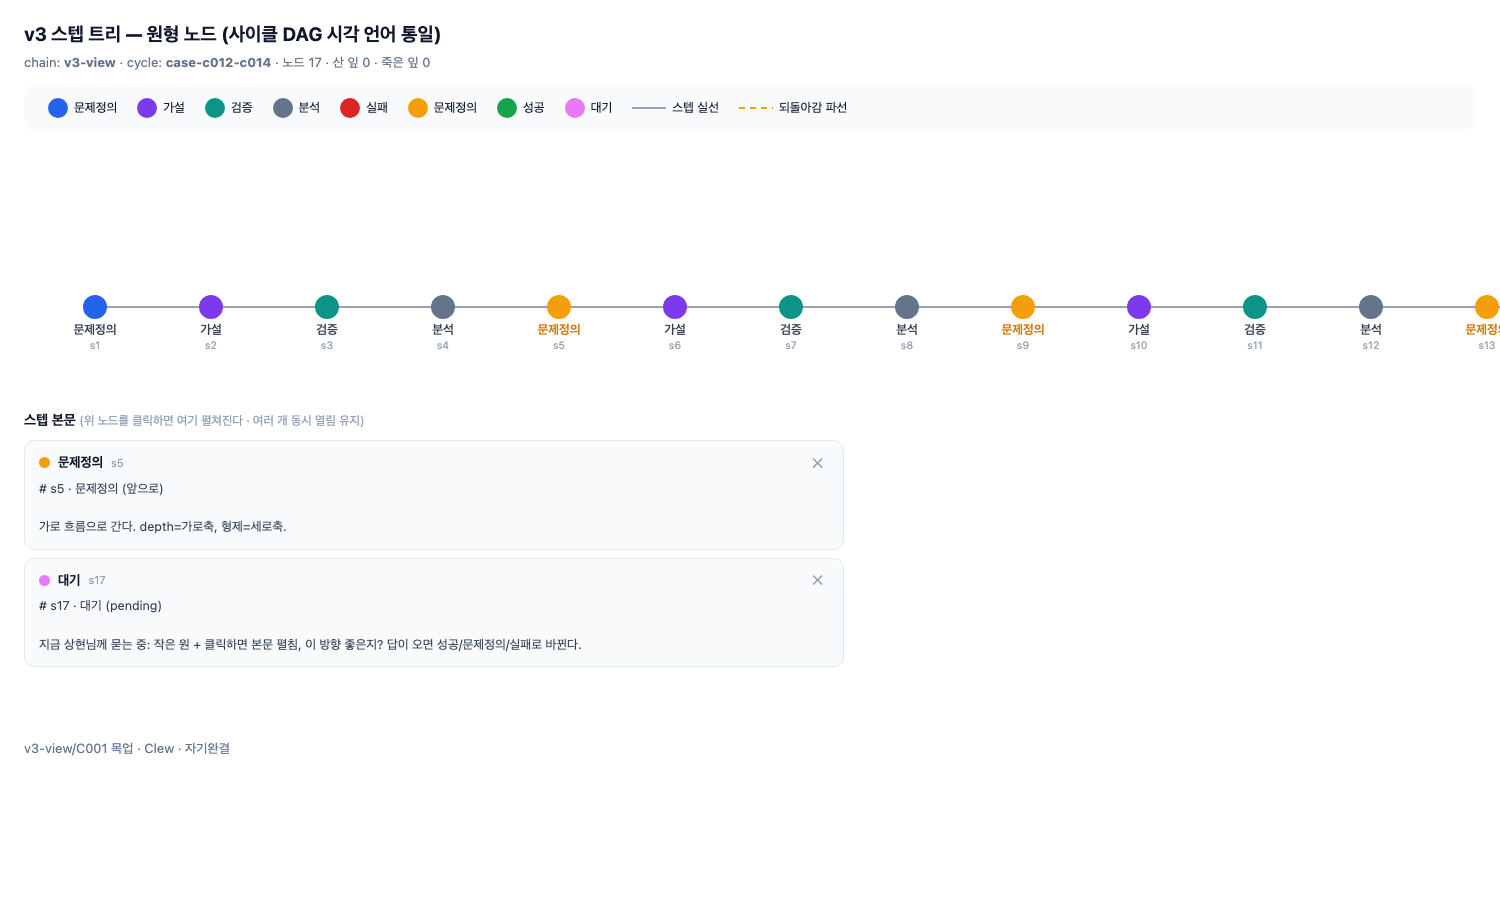
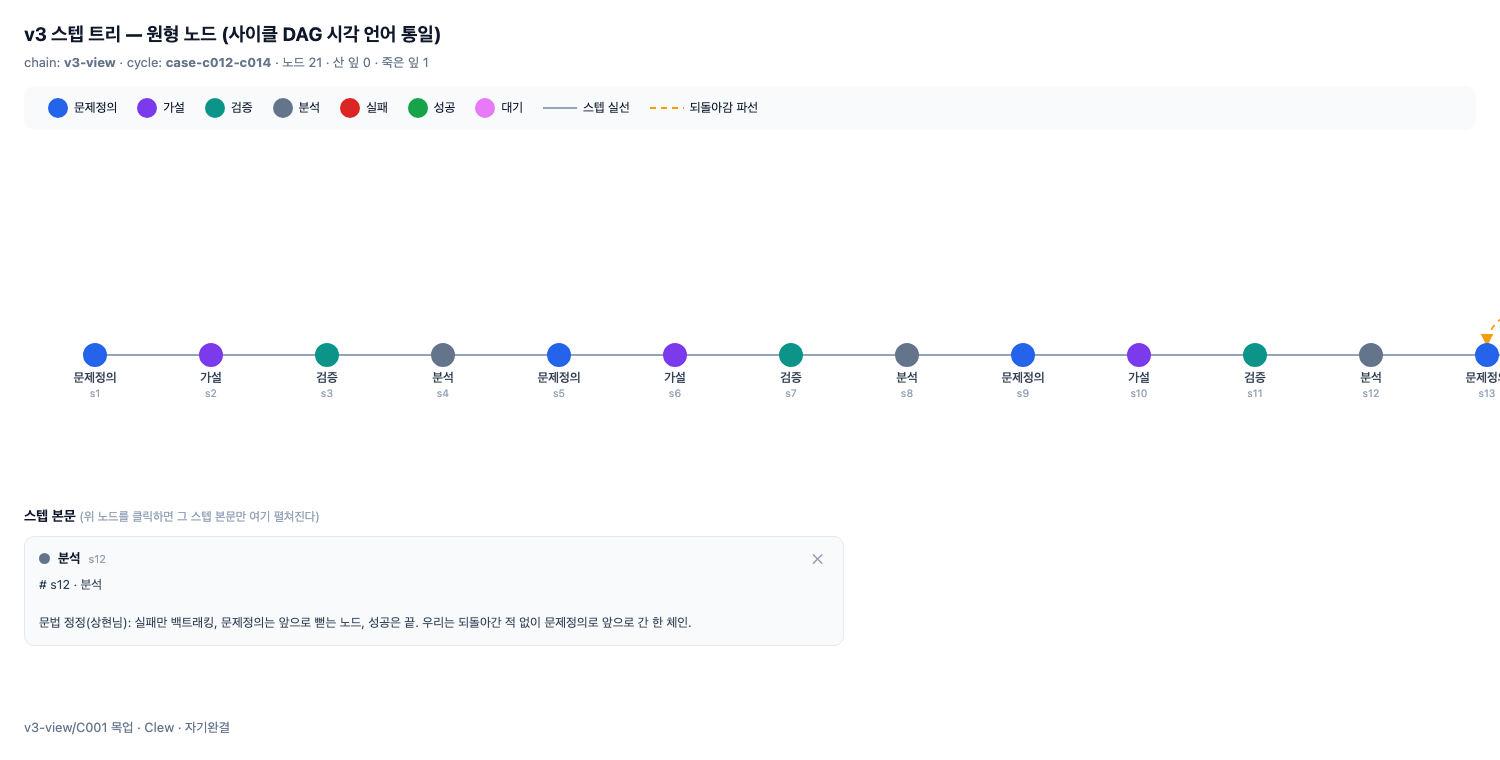
clew: 단일 열림 수정 — 클릭한 노드 본문만 보이게 (상현님)
다중 열림→단일. toggle이 closeAll 먼저 호출, 항상 최대 하나만 열림(재클릭 토글).
트리에 각인: s21 대기→문제정의(앞으로), s22~s25 새 가지(수정→검증→분석→대기).

diff --git a/rooms/experiment/chains/v3-view/C001-circular-step-tree-unified-language/3-verification/design-steptree/out.html b/rooms/experiment/chains/v3-view/C001-circular-step-tree-unified-language/3-verification/design-steptree/out.html
@@ -40,7 +40,7 @@ body{margin:0;font:14px/1.5 -apple-system,BlinkMacSystemFont,"Segoe UI",sans-ser
 .sb-close{margin-left:auto;border:none;background:transparent;cursor:pointer;color:#94a3b8;font-size:14px}
 .sb-body{white-space:pre-wrap;font:12.5px/1.55 -apple-system,BlinkMacSystemFont,sans-serif;margin:0;color:#334155}
 @media (prefers-color-scheme:dark){.sb-body{color:#cbd5e1}}
-</style><div class="head"><h1>v3 스텝 트리 — 원형 노드 (사이클 DAG 시각 언어 통일)</h1><div class="meta">chain: <b>v3-view</b> · cycle: <b>case-c012-c014</b> · 노드 21 · 산 잎 0 · 죽은 잎 1</div></div><div class="legend"><span class="lg"><span class="sw" style="background:#2563eb;border-color:#2563eb"></span>문제정의</span><span class="lg"><span class="sw" style="background:#7c3aed;border-color:#7c3aed"></span>가설</span><span class="lg"><span class="sw" style="background:#0d9488;border-color:#0d9488"></span>검증</span><span class="lg"><span class="sw" style="background:#64748b;border-color:#64748b"></span>분석</span><span class="lg"><span class="sw" style="background:#dc2626;border-color:#dc2626"></span>실패</span><span class="lg"><span class="sw" style="background:#16a34a;border-color:#16a34a"></span>성공</span><span class="lg"><span class="sw" style="background:#e879f9;border-color:#e879f9"></span>대기</span><span class="lg"><svg width="34" height="10"><line x1="0" y1="5" x2="34" y2="5" stroke="#94a3b8" stroke-width="2"/></svg>스텝 실선</span><span class="lg"><svg width="34" height="10"><line x1="0" y1="5" x2="34" y2="5" stroke="#f59e0b" stroke-width="2" stroke-dasharray="6 5"/></svg>되돌아감 파선</span></div><div class="wrap"><svg width="2058" height="308" viewBox="0 0 2058 308" xmlns="http://www.w3.org/2000/svg"><defs><marker id="bt-arrow" viewBox="0 0 10 10" refX="8" refY="5" markerWidth="7" markerHeight="7" orient="auto-start-reverse"><path d="M0 0 L10 5 L0 10 z" fill="#f59e0b"/></marker></defs><path class="edge-parent" d="M 82 209 C 129 209, 129 209, 176 209" data-from="s1" data-to="s2" /><path class="edge-parent" d="M 198 209 C 245 209, 245 209, 292 209" data-from="s2" data-to="s3" /><path class="edge-parent" d="M 314 209 C 361 209, 361 209, 408 209" data-from="s3" data-to="s4" /><path class="edge-parent" d="M 430 209 C 477 209, 477 209, 524 209" data-from="s4" data-to="s5" /><path class="edge-parent" d="M 546 209 C 593 209, 593 209, 640 209" data-from="s5" data-to="s6" /><path class="edge-parent" d="M 662 209 C 709 209, 709 209, 756 209" data-from="s6" data-to="s7" /><path class="edge-parent" d="M 778 209 C 825 209, 825 209, 872 209" data-from="s7" data-to="s8" /><path class="edge-parent" d="M 894 209 C 941 209, 941 209, 988 209" data-from="s8" data-to="s9" /><path class="edge-parent" d="M 1010 209 C 1057 209, 1057 209, 1104 209" data-from="s9" data-to="s10" /><path class="edge-parent" d="M 1126 209 C 1173 209, 1173 209, 1220 209" data-from="s10" data-to="s11" /><path class="edge-parent" d="M 1242 209 C 1289 209, 1289 209, 1336 209" data-from="s11" data-to="s12" /><path class="edge-parent" d="M 1358 209 C 1405 209, 1405 209, 1452 209" data-from="s12" data-to="s13" /><path class="edge-parent" d="M 1474 209 C 1521 209, 1521 161, 1568 161" data-from="s13" data-to="s14" /><path class="edge-parent" d="M 1590 161 C 1637 161, 1637 161, 1684 161" data-from="s14" data-to="s15" /><path class="edge-parent" d="M 1706 161 C 1753 161, 1753 161, 1800 161" data-from="s15" data-to="s16" /><path class="edge-parent" d="M 1822 161 C 1869 161, 1869 161, 1916 161" data-from="s16" data-to="s17" /><path class="edge-parent" d="M 1474 209 C 1521 209, 1521 257, 1568 257" data-from="s13" data-to="s18" /><path class="edge-parent" d="M 1590 257 C 1637 257, 1637 257, 1684 257" data-from="s18" data-to="s19" /><path class="edge-parent" d="M 1706 257 C 1753 257, 1753 257, 1800 257" data-from="s19" data-to="s20" /><path class="edge-parent" d="M 1822 257 C 1869 257, 1869 257, 1916 257" data-from="s20" data-to="s21" /><path class="edge-backtrack" marker-end="url(#bt-arrow)" d="M 1927 150 C 1927 108, 1463 108, 1463 198" data-from="s17" data-to="s13" /><g class="node kind-define clickable" data-id="s1" data-kind="define" data-outcome="" data-body="body-s1" tabindex="0" role="button" aria-label="스텝 s1 본문 열기"><circle class="n-hit" cx="71" cy="209" r="19" fill="transparent" /><circle class="n-circle" cx="71" cy="209" r="11" fill="#2563eb" stroke="#2563eb" /><text class="n-name" x="71" y="236" text-anchor="middle">문제정의</text><text class="n-sub" x="71" y="251" text-anchor="middle">s1</text></g><g class="node kind-hypothesis clickable" data-id="s2" data-kind="hypothesis" data-outcome="" data-body="body-s2" tabindex="0" role="button" aria-label="스텝 s2 본문 열기"><circle class="n-hit" cx="187" cy="209" r="19" fill="transparent" /><circle class="n-circle" cx="187" cy="209" r="11" fill="#7c3aed" stroke="#7c3aed" /><text class="n-name" x="187" y="236" text-anchor="middle">가설</text><text class="n-sub" x="187" y="251" text-anchor="middle">s2</text></g><g class="node kind-verify clickable" data-id="s3" data-kind="verify" data-outcome="" data-body="body-s3" tabindex="0" role="button" aria-label="스텝 s3 본문 열기"><circle class="n-hit" cx="303" cy="209" r="19" fill="transparent" /><circle class="n-circle" cx="303" cy="209" r="11" fill="#0d9488" stroke="#0d9488" /><text class="n-name" x="303" y="236" text-anchor="middle">검증</text><text class="n-sub" x="303" y="251" text-anchor="middle">s3</text></g><g class="node kind-analyze clickable" data-id="s4" data-kind="analyze" data-outcome="" data-body="body-s4" tabindex="0" role="button" aria-label="스텝 s4 본문 열기"><circle class="n-hit" cx="419" cy="209" r="19" fill="transparent" /><circle class="n-circle" cx="419" cy="209" r="11" fill="#64748b" stroke="#64748b" /><text class="n-name" x="419" y="236" text-anchor="middle">분석</text><text class="n-sub" x="419" y="251" text-anchor="middle">s4</text></g><g class="node kind-define clickable" data-id="s5" data-kind="define" data-outcome="" data-body="body-s5" tabindex="0" role="button" aria-label="스텝 s5 본문 열기"><circle class="n-hit" cx="535" cy="209" r="19" fill="transparent" /><circle class="n-circle" cx="535" cy="209" r="11" fill="#2563eb" stroke="#2563eb" /><text class="n-name" x="535" y="236" text-anchor="middle">문제정의</text><text class="n-sub" x="535" y="251" text-anchor="middle">s5</text></g><g class="node kind-hypothesis clickable" data-id="s6" data-kind="hypothesis" data-outcome="" data-body="body-s6" tabindex="0" role="button" aria-label="스텝 s6 본문 열기"><circle class="n-hit" cx="651" cy="209" r="19" fill="transparent" /><circle class="n-circle" cx="651" cy="209" r="11" fill="#7c3aed" stroke="#7c3aed" /><text class="n-name" x="651" y="236" text-anchor="middle">가설</text><text class="n-sub" x="651" y="251" text-anchor="middle">s6</text></g><g class="node kind-verify clickable" data-id="s7" data-kind="verify" data-outcome="" data-body="body-s7" tabindex="0" role="button" aria-label="스텝 s7 본문 열기"><circle class="n-hit" cx="767" cy="209" r="19" fill="transparent" /><circle class="n-circle" cx="767" cy="209" r="11" fill="#0d9488" stroke="#0d9488" /><text class="n-name" x="767" y="236" text-anchor="middle">검증</text><text class="n-sub" x="767" y="251" text-anchor="middle">s7</text></g><g class="node kind-analyze clickable" data-id="s8" data-kind="analyze" data-outcome="" data-body="body-s8" tabindex="0" role="button" aria-label="스텝 s8 본문 열기"><circle class="n-hit" cx="883" cy="209" r="19" fill="transparent" /><circle class="n-circle" cx="883" cy="209" r="11" fill="#64748b" stroke="#64748b" /><text class="n-name" x="883" y="236" text-anchor="middle">분석</text><text class="n-sub" x="883" y="251" text-anchor="middle">s8</text></g><g class="node kind-define clickable" data-id="s9" data-kind="define" data-outcome="" data-body="body-s9" tabindex="0" role="button" aria-label="스텝 s9 본문 열기"><circle class="n-hit" cx="999" cy="209" r="19" fill="transparent" /><circle class="n-circle" cx="999" cy="209" r="11" fill="#2563eb" stroke="#2563eb" /><text class="n-name" x="999" y="236" text-anchor="middle">문제정의</text><text class="n-sub" x="999" y="251" text-anchor="middle">s9</text></g><g class="node kind-hypothesis clickable" data-id="s10" data-kind="hypothesis" data-outcome="" data-body="body-s10" tabindex="0" role="button" aria-label="스텝 s10 본문 열기"><circle class="n-hit" cx="1115" cy="209" r="19" fill="transparent" /><circle class="n-circle" cx="1115" cy="209" r="11" fill="#7c3aed" stroke="#7c3aed" /><text class="n-name" x="1115" y="236" text-anchor="middle">가설</text><text class="n-sub" x="1115" y="251" text-anchor="middle">s10</text></g><g class="node kind-verify clickable" data-id="s11" data-kind="verify" data-outcome="" data-body="body-s11" tabindex="0" role="button" aria-label="스텝 s11 본문 열기"><circle class="n-hit" cx="1231" cy="209" r="19" fill="transparent" /><circle class="n-circle" cx="1231" cy="209" r="11" fill="#0d9488" stroke="#0d9488" /><text class="n-name" x="1231" y="236" text-anchor="middle">검증</text><text class="n-sub" x="1231" y="251" text-anchor="middle">s11</text></g><g class="node kind-analyze clickable" data-id="s12" data-kind="analyze" data-outcome="" data-body="body-s12" tabindex="0" role="button" aria-label="스텝 s12 본문 열기"><circle class="n-hit" cx="1347" cy="209" r="19" fill="transparent" /><circle class="n-circle" cx="1347" cy="209" r="11" fill="#64748b" stroke="#64748b" /><text class="n-name" x="1347" y="236" text-anchor="middle">분석</text><text class="n-sub" x="1347" y="251" text-anchor="middle">s12</text></g><g class="node kind-define clickable" data-id="s13" data-kind="define" data-outcome="" data-body="body-s13" tabindex="0" role="button" aria-label="스텝 s13 본문 열기"><circle class="n-hit" cx="1463" cy="209" r="19" fill="transparent" /><circle class="n-circle" cx="1463" cy="209" r="11" fill="#2563eb" stroke="#2563eb" /><text class="n-name" x="1463" y="236" text-anchor="middle">문제정의</text><text class="n-sub" x="1463" y="251" text-anchor="middle">s13</text></g><g class="node kind-hypothesis clickable" data-id="s14" data-kind="hypothesis" data-outcome="" data-body="body-s14" tabindex="0" role="button" aria-label="스텝 s14 본문 열기"><circle class="n-hit" cx="1579" cy="161" r="19" fill="transparent" /><circle class="n-circle" cx="1579" cy="161" r="11" fill="#7c3aed" stroke="#7c3aed" /><text class="n-name" x="1579" y="188" text-anchor="middle">가설</text><text class="n-sub" x="1579" y="203" text-anchor="middle">s14</text></g><g class="node kind-verify clickable" data-id="s15" data-kind="verify" data-outcome="" data-body="body-s15" tabindex="0" role="button" aria-label="스텝 s15 본문 열기"><circle class="n-hit" cx="1695" cy="161" r="19" fill="transparent" /><circle class="n-circle" cx="1695" cy="161" r="11" fill="#0d9488" stroke="#0d9488" /><text class="n-name" x="1695" y="188" text-anchor="middle">검증</text><text class="n-sub" x="1695" y="203" text-anchor="middle">s15</text></g><g class="node kind-analyze clickable" data-id="s16" data-kind="analyze" data-outcome="" data-body="body-s16" tabindex="0" role="button" aria-label="스텝 s16 본문 열기"><circle class="n-hit" cx="1811" cy="161" r="19" fill="transparent" /><circle class="n-circle" cx="1811" cy="161" r="11" fill="#64748b" stroke="#64748b" /><text class="n-name" x="1811" y="188" text-anchor="middle">분석</text><text class="n-sub" x="1811" y="203" text-anchor="middle">s16</text></g><g class="node kind-fail result-fail clickable" data-id="s17" data-kind="fail" data-outcome="fail" data-body="body-s17" tabindex="0" role="button" aria-label="스텝 s17 본문 열기"><circle class="n-hit" cx="1927" cy="161" r="19" fill="transparent" /><circle class="n-circle" cx="1927" cy="161" r="11" fill="#dc2626" stroke="#dc2626" /><text class="n-name" x="1927" y="188" text-anchor="middle">실패</text><text class="n-sub" x="1927" y="203" text-anchor="middle">s17</text></g><g class="node kind-hypothesis clickable" data-id="s18" data-kind="hypothesis" data-outcome="" data-body="body-s18" tabindex="0" role="button" aria-label="스텝 s18 본문 열기"><circle class="n-hit" cx="1579" cy="257" r="19" fill="transparent" /><circle class="n-circle" cx="1579" cy="257" r="11" fill="#7c3aed" stroke="#7c3aed" /><text class="n-name" x="1579" y="284" text-anchor="middle">가설</text><text class="n-sub" x="1579" y="299" text-anchor="middle">s18</text></g><g class="node kind-verify clickable" data-id="s19" data-kind="verify" data-outcome="" data-body="body-s19" tabindex="0" role="button" aria-label="스텝 s19 본문 열기"><circle class="n-hit" cx="1695" cy="257" r="19" fill="transparent" /><circle class="n-circle" cx="1695" cy="257" r="11" fill="#0d9488" stroke="#0d9488" /><text class="n-name" x="1695" y="284" text-anchor="middle">검증</text><text class="n-sub" x="1695" y="299" text-anchor="middle">s19</text></g><g class="node kind-analyze clickable" data-id="s20" data-kind="analyze" data-outcome="" data-body="body-s20" tabindex="0" role="button" aria-label="스텝 s20 본문 열기"><circle class="n-hit" cx="1811" cy="257" r="19" fill="transparent" /><circle class="n-circle" cx="1811" cy="257" r="11" fill="#64748b" stroke="#64748b" /><text class="n-name" x="1811" y="284" text-anchor="middle">분석</text><text class="n-sub" x="1811" y="299" text-anchor="middle">s20</text></g><g class="node kind-pending result-pending clickable" data-id="s21" data-kind="pending" data-outcome="pending" data-body="body-s21" tabindex="0" role="button" aria-label="스텝 s21 본문 열기"><circle class="n-hit" cx="1927" cy="257" r="19" fill="transparent" /><circle class="n-circle" cx="1927" cy="257" r="11" fill="#e879f9" stroke="#e879f9" /><text class="n-name" x="1927" y="284" text-anchor="middle">대기</text><text class="n-sub" x="1927" y="299" text-anchor="middle">s21</text></g></svg></div><div class="bodies"><div class="bodies-title">스텝 본문 <span class="bodies-hint">(위 노드를 클릭하면 여기 펼쳐진다 · 여러 개 동시 열림 유지)</span></div><article class="stepbody" id="body-s1" hidden><div class="sb-head"><span class="sb-dot" style="background:#2563eb"></span><span class="sb-name">문제정의</span><span class="sb-id">s1</span><button class="sb-close" type="button" data-close="body-s1" aria-label="닫기">✕</button></div><pre class="sb-body"># s1 · 문제정의 (루트)
+</style><div class="head"><h1>v3 스텝 트리 — 원형 노드 (사이클 DAG 시각 언어 통일)</h1><div class="meta">chain: <b>v3-view</b> · cycle: <b>case-c012-c014</b> · 노드 25 · 산 잎 0 · 죽은 잎 1</div></div><div class="legend"><span class="lg"><span class="sw" style="background:#2563eb;border-color:#2563eb"></span>문제정의</span><span class="lg"><span class="sw" style="background:#7c3aed;border-color:#7c3aed"></span>가설</span><span class="lg"><span class="sw" style="background:#0d9488;border-color:#0d9488"></span>검증</span><span class="lg"><span class="sw" style="background:#64748b;border-color:#64748b"></span>분석</span><span class="lg"><span class="sw" style="background:#dc2626;border-color:#dc2626"></span>실패</span><span class="lg"><span class="sw" style="background:#16a34a;border-color:#16a34a"></span>성공</span><span class="lg"><span class="sw" style="background:#e879f9;border-color:#e879f9"></span>대기</span><span class="lg"><svg width="34" height="10"><line x1="0" y1="5" x2="34" y2="5" stroke="#94a3b8" stroke-width="2"/></svg>스텝 실선</span><span class="lg"><svg width="34" height="10"><line x1="0" y1="5" x2="34" y2="5" stroke="#f59e0b" stroke-width="2" stroke-dasharray="6 5"/></svg>되돌아감 파선</span></div><div class="wrap"><svg width="2522" height="308" viewBox="0 0 2522 308" xmlns="http://www.w3.org/2000/svg"><defs><marker id="bt-arrow" viewBox="0 0 10 10" refX="8" refY="5" markerWidth="7" markerHeight="7" orient="auto-start-reverse"><path d="M0 0 L10 5 L0 10 z" fill="#f59e0b"/></marker></defs><path class="edge-parent" d="M 82 209 C 129 209, 129 209, 176 209" data-from="s1" data-to="s2" /><path class="edge-parent" d="M 198 209 C 245 209, 245 209, 292 209" data-from="s2" data-to="s3" /><path class="edge-parent" d="M 314 209 C 361 209, 361 209, 408 209" data-from="s3" data-to="s4" /><path class="edge-parent" d="M 430 209 C 477 209, 477 209, 524 209" data-from="s4" data-to="s5" /><path class="edge-parent" d="M 546 209 C 593 209, 593 209, 640 209" data-from="s5" data-to="s6" /><path class="edge-parent" d="M 662 209 C 709 209, 709 209, 756 209" data-from="s6" data-to="s7" /><path class="edge-parent" d="M 778 209 C 825 209, 825 209, 872 209" data-from="s7" data-to="s8" /><path class="edge-parent" d="M 894 209 C 941 209, 941 209, 988 209" data-from="s8" data-to="s9" /><path class="edge-parent" d="M 1010 209 C 1057 209, 1057 209, 1104 209" data-from="s9" data-to="s10" /><path class="edge-parent" d="M 1126 209 C 1173 209, 1173 209, 1220 209" data-from="s10" data-to="s11" /><path class="edge-parent" d="M 1242 209 C 1289 209, 1289 209, 1336 209" data-from="s11" data-to="s12" /><path class="edge-parent" d="M 1358 209 C 1405 209, 1405 209, 1452 209" data-from="s12" data-to="s13" /><path class="edge-parent" d="M 1474 209 C 1521 209, 1521 161, 1568 161" data-from="s13" data-to="s14" /><path class="edge-parent" d="M 1590 161 C 1637 161, 1637 161, 1684 161" data-from="s14" data-to="s15" /><path class="edge-parent" d="M 1706 161 C 1753 161, 1753 161, 1800 161" data-from="s15" data-to="s16" /><path class="edge-parent" d="M 1822 161 C 1869 161, 1869 161, 1916 161" data-from="s16" data-to="s17" /><path class="edge-parent" d="M 1474 209 C 1521 209, 1521 257, 1568 257" data-from="s13" data-to="s18" /><path class="edge-parent" d="M 1590 257 C 1637 257, 1637 257, 1684 257" data-from="s18" data-to="s19" /><path class="edge-parent" d="M 1706 257 C 1753 257, 1753 257, 1800 257" data-from="s19" data-to="s20" /><path class="edge-parent" d="M 1822 257 C 1869 257, 1869 257, 1916 257" data-from="s20" data-to="s21" /><path class="edge-parent" d="M 1938 257 C 1985 257, 1985 257, 2032 257" data-from="s21" data-to="s22" /><path class="edge-parent" d="M 2054 257 C 2101 257, 2101 257, 2148 257" data-from="s22" data-to="s23" /><path class="edge-parent" d="M 2170 257 C 2217 257, 2217 257, 2264 257" data-from="s23" data-to="s24" /><path class="edge-parent" d="M 2286 257 C 2333 257, 2333 257, 2380 257" data-from="s24" data-to="s25" /><path class="edge-backtrack" marker-end="url(#bt-arrow)" d="M 1927 150 C 1927 108, 1463 108, 1463 198" data-from="s17" data-to="s13" /><g class="node kind-define clickable" data-id="s1" data-kind="define" data-outcome="" data-body="body-s1" tabindex="0" role="button" aria-label="스텝 s1 본문 열기"><circle class="n-hit" cx="71" cy="209" r="19" fill="transparent" /><circle class="n-circle" cx="71" cy="209" r="11" fill="#2563eb" stroke="#2563eb" /><text class="n-name" x="71" y="236" text-anchor="middle">문제정의</text><text class="n-sub" x="71" y="251" text-anchor="middle">s1</text></g><g class="node kind-hypothesis clickable" data-id="s2" data-kind="hypothesis" data-outcome="" data-body="body-s2" tabindex="0" role="button" aria-label="스텝 s2 본문 열기"><circle class="n-hit" cx="187" cy="209" r="19" fill="transparent" /><circle class="n-circle" cx="187" cy="209" r="11" fill="#7c3aed" stroke="#7c3aed" /><text class="n-name" x="187" y="236" text-anchor="middle">가설</text><text class="n-sub" x="187" y="251" text-anchor="middle">s2</text></g><g class="node kind-verify clickable" data-id="s3" data-kind="verify" data-outcome="" data-body="body-s3" tabindex="0" role="button" aria-label="스텝 s3 본문 열기"><circle class="n-hit" cx="303" cy="209" r="19" fill="transparent" /><circle class="n-circle" cx="303" cy="209" r="11" fill="#0d9488" stroke="#0d9488" /><text class="n-name" x="303" y="236" text-anchor="middle">검증</text><text class="n-sub" x="303" y="251" text-anchor="middle">s3</text></g><g class="node kind-analyze clickable" data-id="s4" data-kind="analyze" data-outcome="" data-body="body-s4" tabindex="0" role="button" aria-label="스텝 s4 본문 열기"><circle class="n-hit" cx="419" cy="209" r="19" fill="transparent" /><circle class="n-circle" cx="419" cy="209" r="11" fill="#64748b" stroke="#64748b" /><text class="n-name" x="419" y="236" text-anchor="middle">분석</text><text class="n-sub" x="419" y="251" text-anchor="middle">s4</text></g><g class="node kind-define clickable" data-id="s5" data-kind="define" data-outcome="" data-body="body-s5" tabindex="0" role="button" aria-label="스텝 s5 본문 열기"><circle class="n-hit" cx="535" cy="209" r="19" fill="transparent" /><circle class="n-circle" cx="535" cy="209" r="11" fill="#2563eb" stroke="#2563eb" /><text class="n-name" x="535" y="236" text-anchor="middle">문제정의</text><text class="n-sub" x="535" y="251" text-anchor="middle">s5</text></g><g class="node kind-hypothesis clickable" data-id="s6" data-kind="hypothesis" data-outcome="" data-body="body-s6" tabindex="0" role="button" aria-label="스텝 s6 본문 열기"><circle class="n-hit" cx="651" cy="209" r="19" fill="transparent" /><circle class="n-circle" cx="651" cy="209" r="11" fill="#7c3aed" stroke="#7c3aed" /><text class="n-name" x="651" y="236" text-anchor="middle">가설</text><text class="n-sub" x="651" y="251" text-anchor="middle">s6</text></g><g class="node kind-verify clickable" data-id="s7" data-kind="verify" data-outcome="" data-body="body-s7" tabindex="0" role="button" aria-label="스텝 s7 본문 열기"><circle class="n-hit" cx="767" cy="209" r="19" fill="transparent" /><circle class="n-circle" cx="767" cy="209" r="11" fill="#0d9488" stroke="#0d9488" /><text class="n-name" x="767" y="236" text-anchor="middle">검증</text><text class="n-sub" x="767" y="251" text-anchor="middle">s7</text></g><g class="node kind-analyze clickable" data-id="s8" data-kind="analyze" data-outcome="" data-body="body-s8" tabindex="0" role="button" aria-label="스텝 s8 본문 열기"><circle class="n-hit" cx="883" cy="209" r="19" fill="transparent" /><circle class="n-circle" cx="883" cy="209" r="11" fill="#64748b" stroke="#64748b" /><text class="n-name" x="883" y="236" text-anchor="middle">분석</text><text class="n-sub" x="883" y="251" text-anchor="middle">s8</text></g><g class="node kind-define clickable" data-id="s9" data-kind="define" data-outcome="" data-body="body-s9" tabindex="0" role="button" aria-label="스텝 s9 본문 열기"><circle class="n-hit" cx="999" cy="209" r="19" fill="transparent" /><circle class="n-circle" cx="999" cy="209" r="11" fill="#2563eb" stroke="#2563eb" /><text class="n-name" x="999" y="236" text-anchor="middle">문제정의</text><text class="n-sub" x="999" y="251" text-anchor="middle">s9</text></g><g class="node kind-hypothesis clickable" data-id="s10" data-kind="hypothesis" data-outcome="" data-body="body-s10" tabindex="0" role="button" aria-label="스텝 s10 본문 열기"><circle class="n-hit" cx="1115" cy="209" r="19" fill="transparent" /><circle class="n-circle" cx="1115" cy="209" r="11" fill="#7c3aed" stroke="#7c3aed" /><text class="n-name" x="1115" y="236" text-anchor="middle">가설</text><text class="n-sub" x="1115" y="251" text-anchor="middle">s10</text></g><g class="node kind-verify clickable" data-id="s11" data-kind="verify" data-outcome="" data-body="body-s11" tabindex="0" role="button" aria-label="스텝 s11 본문 열기"><circle class="n-hit" cx="1231" cy="209" r="19" fill="transparent" /><circle class="n-circle" cx="1231" cy="209" r="11" fill="#0d9488" stroke="#0d9488" /><text class="n-name" x="1231" y="236" text-anchor="middle">검증</text><text class="n-sub" x="1231" y="251" text-anchor="middle">s11</text></g><g class="node kind-analyze clickable" data-id="s12" data-kind="analyze" data-outcome="" data-body="body-s12" tabindex="0" role="button" aria-label="스텝 s12 본문 열기"><circle class="n-hit" cx="1347" cy="209" r="19" fill="transparent" /><circle class="n-circle" cx="1347" cy="209" r="11" fill="#64748b" stroke="#64748b" /><text class="n-name" x="1347" y="236" text-anchor="middle">분석</text><text class="n-sub" x="1347" y="251" text-anchor="middle">s12</text></g><g class="node kind-define clickable" data-id="s13" data-kind="define" data-outcome="" data-body="body-s13" tabindex="0" role="button" aria-label="스텝 s13 본문 열기"><circle class="n-hit" cx="1463" cy="209" r="19" fill="transparent" /><circle class="n-circle" cx="1463" cy="209" r="11" fill="#2563eb" stroke="#2563eb" /><text class="n-name" x="1463" y="236" text-anchor="middle">문제정의</text><text class="n-sub" x="1463" y="251" text-anchor="middle">s13</text></g><g class="node kind-hypothesis clickable" data-id="s14" data-kind="hypothesis" data-outcome="" data-body="body-s14" tabindex="0" role="button" aria-label="스텝 s14 본문 열기"><circle class="n-hit" cx="1579" cy="161" r="19" fill="transparent" /><circle class="n-circle" cx="1579" cy="161" r="11" fill="#7c3aed" stroke="#7c3aed" /><text class="n-name" x="1579" y="188" text-anchor="middle">가설</text><text class="n-sub" x="1579" y="203" text-anchor="middle">s14</text></g><g class="node kind-verify clickable" data-id="s15" data-kind="verify" data-outcome="" data-body="body-s15" tabindex="0" role="button" aria-label="스텝 s15 본문 열기"><circle class="n-hit" cx="1695" cy="161" r="19" fill="transparent" /><circle class="n-circle" cx="1695" cy="161" r="11" fill="#0d9488" stroke="#0d9488" /><text class="n-name" x="1695" y="188" text-anchor="middle">검증</text><text class="n-sub" x="1695" y="203" text-anchor="middle">s15</text></g><g class="node kind-analyze clickable" data-id="s16" data-kind="analyze" data-outcome="" data-body="body-s16" tabindex="0" role="button" aria-label="스텝 s16 본문 열기"><circle class="n-hit" cx="1811" cy="161" r="19" fill="transparent" /><circle class="n-circle" cx="1811" cy="161" r="11" fill="#64748b" stroke="#64748b" /><text class="n-name" x="1811" y="188" text-anchor="middle">분석</text><text class="n-sub" x="1811" y="203" text-anchor="middle">s16</text></g><g class="node kind-fail result-fail clickable" data-id="s17" data-kind="fail" data-outcome="fail" data-body="body-s17" tabindex="0" role="button" aria-label="스텝 s17 본문 열기"><circle class="n-hit" cx="1927" cy="161" r="19" fill="transparent" /><circle class="n-circle" cx="1927" cy="161" r="11" fill="#dc2626" stroke="#dc2626" /><text class="n-name" x="1927" y="188" text-anchor="middle">실패</text><text class="n-sub" x="1927" y="203" text-anchor="middle">s17</text></g><g class="node kind-hypothesis clickable" data-id="s18" data-kind="hypothesis" data-outcome="" data-body="body-s18" tabindex="0" role="button" aria-label="스텝 s18 본문 열기"><circle class="n-hit" cx="1579" cy="257" r="19" fill="transparent" /><circle class="n-circle" cx="1579" cy="257" r="11" fill="#7c3aed" stroke="#7c3aed" /><text class="n-name" x="1579" y="284" text-anchor="middle">가설</text><text class="n-sub" x="1579" y="299" text-anchor="middle">s18</text></g><g class="node kind-verify clickable" data-id="s19" data-kind="verify" data-outcome="" data-body="body-s19" tabindex="0" role="button" aria-label="스텝 s19 본문 열기"><circle class="n-hit" cx="1695" cy="257" r="19" fill="transparent" /><circle class="n-circle" cx="1695" cy="257" r="11" fill="#0d9488" stroke="#0d9488" /><text class="n-name" x="1695" y="284" text-anchor="middle">검증</text><text class="n-sub" x="1695" y="299" text-anchor="middle">s19</text></g><g class="node kind-analyze clickable" data-id="s20" data-kind="analyze" data-outcome="" data-body="body-s20" tabindex="0" role="button" aria-label="스텝 s20 본문 열기"><circle class="n-hit" cx="1811" cy="257" r="19" fill="transparent" /><circle class="n-circle" cx="1811" cy="257" r="11" fill="#64748b" stroke="#64748b" /><text class="n-name" x="1811" y="284" text-anchor="middle">분석</text><text class="n-sub" x="1811" y="299" text-anchor="middle">s20</text></g><g class="node kind-define clickable" data-id="s21" data-kind="define" data-outcome="" data-body="body-s21" tabindex="0" role="button" aria-label="스텝 s21 본문 열기"><circle class="n-hit" cx="1927" cy="257" r="19" fill="transparent" /><circle class="n-circle" cx="1927" cy="257" r="11" fill="#2563eb" stroke="#2563eb" /><text class="n-name" x="1927" y="284" text-anchor="middle">문제정의</text><text class="n-sub" x="1927" y="299" text-anchor="middle">s21</text></g><g class="node kind-hypothesis clickable" data-id="s22" data-kind="hypothesis" data-outcome="" data-body="body-s22" tabindex="0" role="button" aria-label="스텝 s22 본문 열기"><circle class="n-hit" cx="2043" cy="257" r="19" fill="transparent" /><circle class="n-circle" cx="2043" cy="257" r="11" fill="#7c3aed" stroke="#7c3aed" /><text class="n-name" x="2043" y="284" text-anchor="middle">가설</text><text class="n-sub" x="2043" y="299" text-anchor="middle">s22</text></g><g class="node kind-verify clickable" data-id="s23" data-kind="verify" data-outcome="" data-body="body-s23" tabindex="0" role="button" aria-label="스텝 s23 본문 열기"><circle class="n-hit" cx="2159" cy="257" r="19" fill="transparent" /><circle class="n-circle" cx="2159" cy="257" r="11" fill="#0d9488" stroke="#0d9488" /><text class="n-name" x="2159" y="284" text-anchor="middle">검증</text><text class="n-sub" x="2159" y="299" text-anchor="middle">s23</text></g><g class="node kind-analyze clickable" data-id="s24" data-kind="analyze" data-outcome="" data-body="body-s24" tabindex="0" role="button" aria-label="스텝 s24 본문 열기"><circle class="n-hit" cx="2275" cy="257" r="19" fill="transparent" /><circle class="n-circle" cx="2275" cy="257" r="11" fill="#64748b" stroke="#64748b" /><text class="n-name" x="2275" y="284" text-anchor="middle">분석</text><text class="n-sub" x="2275" y="299" text-anchor="middle">s24</text></g><g class="node kind-pending result-pending clickable" data-id="s25" data-kind="pending" data-outcome="pending" data-body="body-s25" tabindex="0" role="button" aria-label="스텝 s25 본문 열기"><circle class="n-hit" cx="2391" cy="257" r="19" fill="transparent" /><circle class="n-circle" cx="2391" cy="257" r="11" fill="#e879f9" stroke="#e879f9" /><text class="n-name" x="2391" y="284" text-anchor="middle">대기</text><text class="n-sub" x="2391" y="299" text-anchor="middle">s25</text></g></svg></div><div class="bodies"><div class="bodies-title">스텝 본문 <span class="bodies-hint">(위 노드를 클릭하면 그 스텝 본문만 여기 펼쳐진다)</span></div><article class="stepbody" id="body-s1" hidden><div class="sb-head"><span class="sb-dot" style="background:#2563eb"></span><span class="sb-name">문제정의</span><span class="sb-id">s1</span><button class="sb-close" type="button" data-close="body-s1" aria-label="닫기">✕</button></div><pre class="sb-body"># s1 · 문제정의 (루트)
 
 v3 뷰어를 3층 드릴다운(체인→사이클 DAG→스텝 트리)으로. 스텝 트리를 사이클 DAG와 같은 시각 언어로 어떻게 그릴까?
 </pre></article><article class="stepbody" id="body-s2" hidden><div class="sb-head"><span class="sb-dot" style="background:#7c3aed"></span><span class="sb-name">가설</span><span class="sb-id">s2</span><button class="sb-close" type="button" data-close="body-s2" aria-label="닫기">✕</button></div><pre class="sb-body"># s2 · 가설
@@ -100,16 +100,35 @@ circletree에서 redefine kind 폐지, 색·라벨·범례 통합. 트리 데이
 </pre></article><article class="stepbody" id="body-s20" hidden><div class="sb-head"><span class="sb-dot" style="background:#64748b"></span><span class="sb-name">분석</span><span class="sb-id">s20</span><button class="sb-close" type="button" data-close="body-s20" aria-label="닫기">✕</button></div><pre class="sb-body"># s20 · 분석
 
 이제 문제정의는 한 종류. 범례에 &#x27;문제정의&#x27;가 한 번만. s5·s9·s13이 전부 파랑 define으로.
-</pre></article><article class="stepbody" id="body-s21" hidden><div class="sb-head"><span class="sb-dot" style="background:#e879f9"></span><span class="sb-name">대기</span><span class="sb-id">s21</span><button class="sb-close" type="button" data-close="body-s21" aria-label="닫기">✕</button></div><pre class="sb-body"># s21 · 대기 (pending)
+</pre></article><article class="stepbody" id="body-s21" hidden><div class="sb-head"><span class="sb-dot" style="background:#2563eb"></span><span class="sb-name">문제정의</span><span class="sb-id">s21</span><button class="sb-close" type="button" data-close="body-s21" aria-label="닫기">✕</button></div><pre class="sb-body"># s21 · 문제정의 (앞으로)
 
-지금 상현님께 묻는 중: 통합된 문제정의 + 실패 백트래킹(첫 실패!)이 이 트리에 맞게 그려졌는지?
+상현님: &#x27;클릭한 노드 문서만 보여야 하는데 뭐가 많이 보인다.&#x27; 다중 열림을 단일 열림으로 고친다.
+</pre></article><article class="stepbody" id="body-s22" hidden><div class="sb-head"><span class="sb-dot" style="background:#7c3aed"></span><span class="sb-name">가설</span><span class="sb-id">s22</span><button class="sb-close" type="button" data-close="body-s22" aria-label="닫기">✕</button></div><pre class="sb-body"># s22 · 가설
+
+노드 클릭 시 다른 열린 본문을 먼저 다 닫고 그것만 연다(한 번에 하나). 같은 노드 재클릭은 토글.
+</pre></article><article class="stepbody" id="body-s23" hidden><div class="sb-head"><span class="sb-dot" style="background:#0d9488"></span><span class="sb-name">검증</span><span class="sb-id">s23</span><button class="sb-close" type="button" data-close="body-s23" aria-label="닫기">✕</button></div><pre class="sb-body"># s23 · 검증
+
+toggle JS를 closeAll 먼저 호출하도록 수정. s12만 열어 캡쳐 — 하나만 보임.
+</pre></article><article class="stepbody" id="body-s24" hidden><div class="sb-head"><span class="sb-dot" style="background:#64748b"></span><span class="sb-name">분석</span><span class="sb-id">s24</span><button class="sb-close" type="button" data-close="body-s24" aria-label="닫기">✕</button></div><pre class="sb-body"># s24 · 분석
+
+이제 항상 최대 한 개만 열린다. 상현님이 지적한 &#x27;많이 보임&#x27; 해소.
+</pre></article><article class="stepbody" id="body-s25" hidden><div class="sb-head"><span class="sb-dot" style="background:#e879f9"></span><span class="sb-name">대기</span><span class="sb-id">s25</span><button class="sb-close" type="button" data-close="body-s25" aria-label="닫기">✕</button></div><pre class="sb-body"># s25 · 대기 (pending)
+
+단일 열림으로 고쳤는지 상현님께 묻는 중. 이제 시각 언어 다 선 듯 — 닫을 때?
 </pre></article></div><div class="head"><div class="meta">v3-view/C001 목업 · Clew · 자기완결</div></div><script>
 (function(){
+  function closeAll(){
+    document.querySelectorAll('.stepbody').forEach(function(p){ p.setAttribute('hidden',''); });
+    document.querySelectorAll('.node.clickable.open').forEach(function(g){ g.classList.remove('open'); });
+  }
   function toggle(g){
     var id=g.getAttribute('data-body'), p=document.getElementById(id);
     if(!p) return;
-    if(p.hasAttribute('hidden')){ p.removeAttribute('hidden'); g.classList.add('open'); p.scrollIntoView({block:'nearest'}); }
-    else { p.setAttribute('hidden',''); g.classList.remove('open'); }
+    var wasOpen = !p.hasAttribute('hidden');
+    closeAll();                         // 먼저 전부 닫고
+    if(!wasOpen){                       // 닫혀 있던 걸 클릭했으면 그것만 연다
+      p.removeAttribute('hidden'); g.classList.add('open'); p.scrollIntoView({block:'nearest'});
+    }                                   // 이미 열린 걸 다시 클릭하면 닫힌 채로 (토글)
   }
   document.querySelectorAll('.node.clickable').forEach(function(g){
     g.addEventListener('click', function(){ toggle(g); });

diff --git a/rooms/experiment/chains/v3-view/C001-circular-step-tree-unified-language/3-verification/circletree.py b/rooms/experiment/chains/v3-view/C001-circular-step-tree-unified-language/3-verification/circletree.py
@@ -178,7 +178,7 @@ def render_html(nodes, chain="v3-view", cycle="case-c012-c014", bodies=None):
             f'<pre class="sb-body">{html.escape(raw)}</pre></article>')
     bodies_section = (
         '<div class="bodies"><div class="bodies-title">스텝 본문 '
-        '<span class="bodies-hint">(위 노드를 클릭하면 여기 펼쳐진다 · 여러 개 동시 열림 유지)'
+        '<span class="bodies-hint">(위 노드를 클릭하면 그 스텝 본문만 여기 펼쳐진다)'
         '</span></div>' + "".join(panels) + '</div>')
 
     return (f'<!doctype html><meta charset="utf-8"><style>{CSS}{INTERACT_CSS}</style>'
@@ -210,14 +210,21 @@ INTERACT_CSS = """
 @media (prefers-color-scheme:dark){.sb-body{color:#cbd5e1}}
 """
 
-# 노드 클릭 → 그 스텝 본문 hidden 토글. 각 패널 독립(통스왑 없음) → 상태보존(C007/C010/C014).
+# 노드 클릭 → 그 스텝 본문만 보인다. 다른 열린 본문은 닫는다(한 번에 하나, 상현님).
 JS = """
 (function(){
+  function closeAll(){
+    document.querySelectorAll('.stepbody').forEach(function(p){ p.setAttribute('hidden',''); });
+    document.querySelectorAll('.node.clickable.open').forEach(function(g){ g.classList.remove('open'); });
+  }
   function toggle(g){
     var id=g.getAttribute('data-body'), p=document.getElementById(id);
     if(!p) return;
-    if(p.hasAttribute('hidden')){ p.removeAttribute('hidden'); g.classList.add('open'); p.scrollIntoView({block:'nearest'}); }
-    else { p.setAttribute('hidden',''); g.classList.remove('open'); }
+    var wasOpen = !p.hasAttribute('hidden');
+    closeAll();                         // 먼저 전부 닫고
+    if(!wasOpen){                       // 닫혀 있던 걸 클릭했으면 그것만 연다
+      p.removeAttribute('hidden'); g.classList.add('open'); p.scrollIntoView({block:'nearest'});
+    }                                   // 이미 열린 걸 다시 클릭하면 닫힌 채로 (토글)
   }
   document.querySelectorAll('.node.clickable').forEach(function(g){
     g.addEventListener('click', function(){ toggle(g); });

diff --git a/rooms/experiment/chains/v3-view/C001-circular-step-tree-unified-language/3-verification/design-steptree/steps/s21.md b/rooms/experiment/chains/v3-view/C001-circular-step-tree-unified-language/3-verification/design-steptree/steps/s21.md
@@ -1,3 +1,3 @@
-# s21 · 대기 (pending)
+# s21 · 문제정의 (앞으로)
 
-지금 상현님께 묻는 중: 통합된 문제정의 + 실패 백트래킹(첫 실패!)이 이 트리에 맞게 그려졌는지?
+상현님: '클릭한 노드 문서만 보여야 하는데 뭐가 많이 보인다.' 다중 열림을 단일 열림으로 고친다.

diff --git a/rooms/experiment/chains/v3-view/C001-circular-step-tree-unified-language/3-verification/design-steptree/steps/s22.md b/rooms/experiment/chains/v3-view/C001-circular-step-tree-unified-language/3-verification/design-steptree/steps/s22.md
@@ -1,0 +1,3 @@
+# s22 · 가설
+
+노드 클릭 시 다른 열린 본문을 먼저 다 닫고 그것만 연다(한 번에 하나). 같은 노드 재클릭은 토글.

diff --git a/rooms/experiment/chains/v3-view/C001-circular-step-tree-unified-language/3-verification/design-steptree/steps/s23.md b/rooms/experiment/chains/v3-view/C001-circular-step-tree-unified-language/3-verification/design-steptree/steps/s23.md
@@ -1,0 +1,3 @@
+# s23 · 검증
+
+toggle JS를 closeAll 먼저 호출하도록 수정. s12만 열어 캡쳐 — 하나만 보임.

diff --git a/rooms/experiment/chains/v3-view/C001-circular-step-tree-unified-language/3-verification/design-steptree/steps/s24.md b/rooms/experiment/chains/v3-view/C001-circular-step-tree-unified-language/3-verification/design-steptree/steps/s24.md
@@ -1,0 +1,3 @@
+# s24 · 분석
+
+이제 항상 최대 한 개만 열린다. 상현님이 지적한 '많이 보임' 해소.

diff --git a/rooms/experiment/chains/v3-view/C001-circular-step-tree-unified-language/3-verification/design-steptree/steps/s25.md b/rooms/experiment/chains/v3-view/C001-circular-step-tree-unified-language/3-verification/design-steptree/steps/s25.md
@@ -1,0 +1,3 @@
+# s25 · 대기 (pending)
+
+단일 열림으로 고쳤는지 상현님께 묻는 중. 이제 시각 언어 다 선 듯 — 닫을 때?